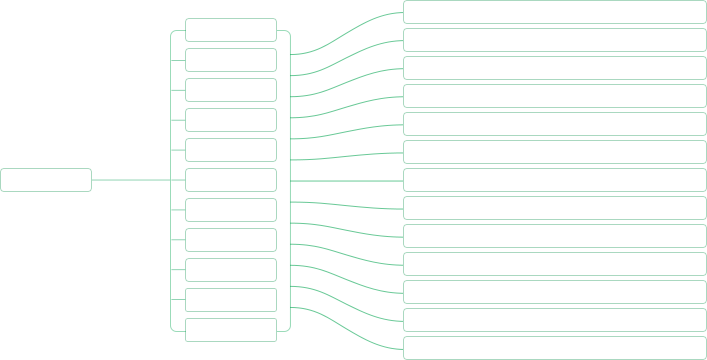
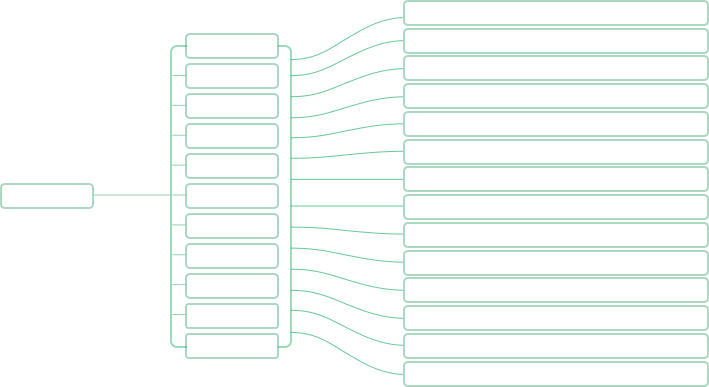
update group.html bg

diff --git a/src/sass/group-media.scss b/src/sass/group-media.scss
@@ -36,8 +36,10 @@
       top: 129px;
     }
     .second-level{
-      left: 187px;
-      top: -28px;
+      // left: 187px;
+      // top: -28px;
+      left: 185px;
+      top: -13px;
       padding-left: 12px;
       .level-item{
         margin-top: 8px;
@@ -59,7 +61,8 @@
     content: '';
     background: url(../img/g-img-4.png) no-repeat;
     width: 710px;
-    height: 365px;
+    // height: 365px;
+    height: 390px;
   }
   .big-event-wrap{
     .event-content{
@@ -105,8 +108,10 @@
       top: 129px;
     }
     .second-level{
-      left: 45px;
-      top: -28px;
+      // left: 45px;
+      // top: -28px;
+      left: 40px;
+      top: -13px;
       padding-left: 12px;
       .level-item{
         margin-top: 8px;
@@ -128,7 +133,8 @@
     content: '';
     background: url(../img/g-img-4.png) no-repeat;
     width: 710px;
-    height: 365px;
+    // height: 365px;
+    height: 390px;
   }
 
   .big-event-wrap{

diff --git a/src/html/group.html b/src/html/group.html
@@ -262,6 +262,7 @@
                   <div class="third-level">
                     <div class="level-item">山东高速齐鲁号欧亚班列运营有限公司</div>
                     <div class="level-item">山东高速国储物流有限公司</div>
+                    <div class="level-item">中铁高速物流（山东）有限公司</div>
                     <div class="level-item">高速骨干网（山东）物流科技有限公司</div>
                     <div class="level-item">山东高速青岛物流发展有限公司</div>
                     <div class="level-item">山东高速鲁南物流发展有限公司</div>

diff --git a/src/sass/custom/default.scss b/src/sass/custom/default.scss
@@ -115,4 +115,5 @@ $train-bg-color: #def1ff;
 $commun-bg-color: #ebeff2;
 
 // 关于我们
-$group-ctx-height: 400px;
+// $group-ctx-height: 400px;
+$group-ctx-height: 430px;
